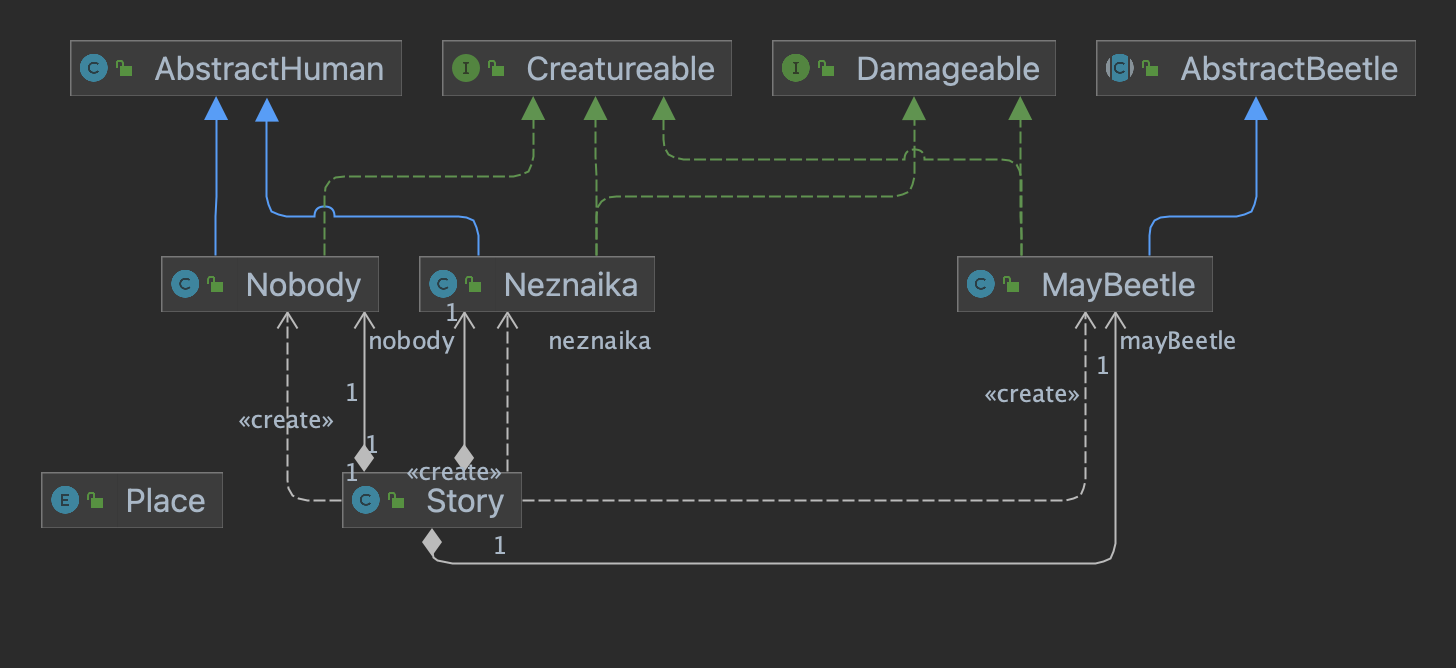
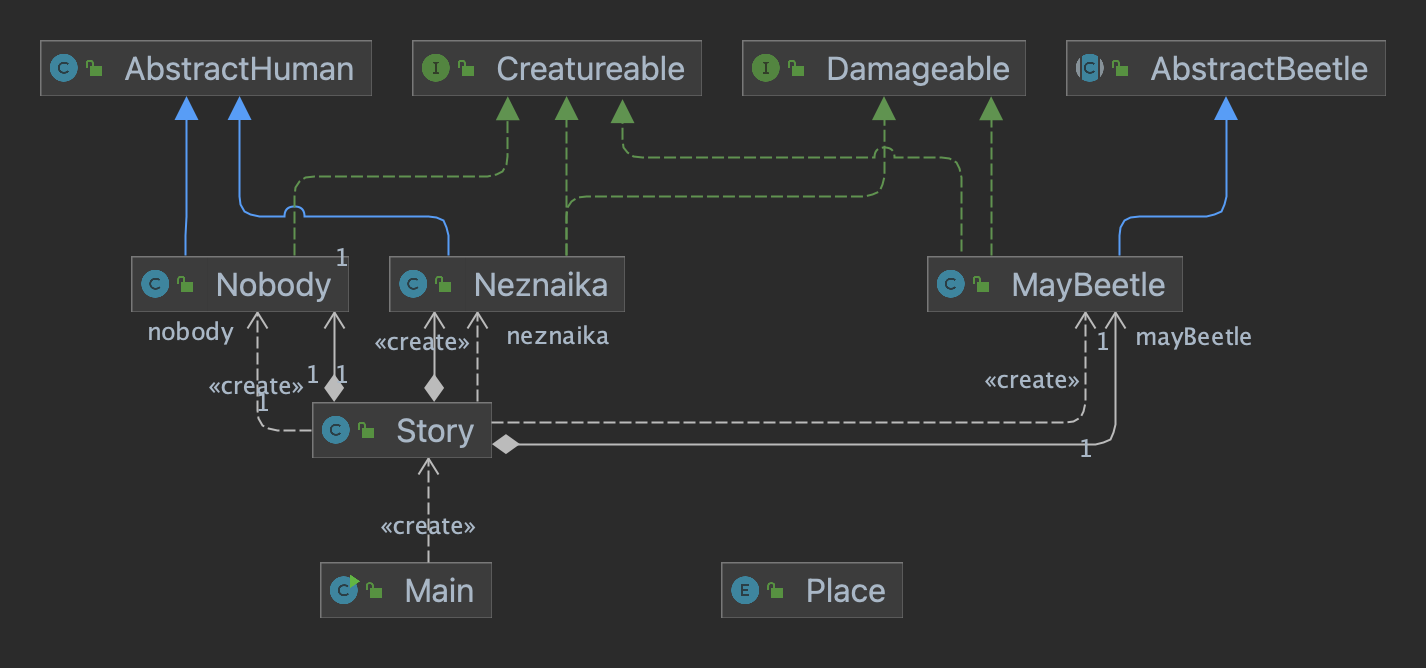
new class structure

diff --git a/src/sources/models/AbstractHuman.java b/src/sources/models/AbstractHuman.java
@@ -1,15 +1,16 @@
-package sources.abstracts;
+package sources.models;
 
 import java.util.Objects;
 
-public class AbstractHuman {
+public abstract class AbstractHuman implements Damageable, Creatureable, Seeable {
     private String name;
     private int age;
     private double popularity;
-    private boolean sex;
+    private String gender;
 
     public AbstractHuman(String name) {
         this.name = name;
+        System.out.println("Объект " + name.toUpperCase() + " создан");
     }
 
     public String getName() {
@@ -36,12 +37,12 @@ public class AbstractHuman {
         this.popularity = popularity;
     }
 
-    public boolean getSex() {
-        return sex;
+    public String getGender() {
+        return gender;
     }
 
-    public void setSex(boolean sex) {
-        this.sex = sex;
+    public void setGender(String gender) {
+        this.gender = gender;
     }
 
     @Override
@@ -57,15 +58,15 @@ public class AbstractHuman {
         if (!(o instanceof AbstractHuman that)) return false;
 
         if (age != that.age) return false;
-        if (sex != that.sex) return false;
-        return Objects.equals(name, that.name);
+        if (!Objects.equals(name, that.name)) return false;
+        return Objects.equals(gender, that.gender);
     }
 
     @Override
     public int hashCode() {
         int result = name != null ? name.hashCode() : 0;
         result = 31 * result + age;
-        result = 31 * result + (sex ? 1 : 0);
+        result = 31 * result + (gender != null ? gender.hashCode() : 0);
         return result;
     }
 }

diff --git a/src/sources/characters/Neznaika.java b/src/sources/characters/Neznaika.java
@@ -1,15 +1,13 @@
-package sources.story;
+package sources.characters;
 
-import sources.abstracts.AbstractHuman;
-import sources.enums.Place;
-import sources.interfaces.Creatureable;
-import sources.interfaces.Damageable;
+import sources.models.AbstractHuman;
+import sources.models.Place;
+import sources.models.Damageable;
 
-public class Neznaika extends AbstractHuman implements Creatureable, Damageable {
+public class Neznaika extends AbstractHuman {
 
     public Neznaika() {
         super("Незнайка");
-        System.out.println("Объект НЕЗНАЙКА создан");
     }
 
     @Override
@@ -45,7 +43,7 @@ public class Neznaika extends AbstractHuman implements Creatureable, Damageable 
         System.out.println("стал оглядываться по сторонам и смотреть, кто это его ударил. ");
     }
 
-    public void getFamous(double popularity) {
+    public void becomeFamous(double popularity) {
         setPopularity(popularity);
         if (popularity > 0.99) {
             System.out.println("В особенности Незнайка прославился после одной истории. ");

diff --git a/src/sources/characters/Nobody.java b/src/sources/characters/Nobody.java
@@ -1,17 +1,14 @@
-package sources.story;
+package sources.characters;
 
-import sources.abstracts.AbstractHuman;
-import sources.enums.Place;
-import sources.interfaces.Creatureable;
+import sources.models.Place;
+import sources.models.Creatureable;
 
-public class Nobody extends AbstractHuman implements Creatureable {
+public class Nobody implements Creatureable {
 
     public Nobody() {
-        super("Никто");
         System.out.println("Объект НИКТО создан");
     }
 
-    @Override
     public void act(Place place) {
         switch (place) {
             case VOKRUG -> System.out.println("Вокруг не было ни души. ");
@@ -21,12 +18,9 @@ public class Nobody extends AbstractHuman implements Creatureable {
     }
 
     @Override
-    public boolean canSee() {
-        return true;
-    }
-
-    @Override
-    public void watch() {
-
+    public void becomeFamous(double popularity) {
+        if (popularity > 0.99) {
+            System.out.println("В особенности никто не прославился. ");
+        }
     }
 }

diff --git a/src/sources/models/AbstractBeetle.java b/src/sources/models/AbstractBeetle.java
@@ -1,8 +1,8 @@
-package sources.abstracts;
+package sources.models;
 
 import java.util.Objects;
 
-public abstract class AbstractBeetle {
+public abstract class AbstractBeetle implements Damageable, Creatureable, Seeable, Flyable {
     private String name;
     private String type;
     private boolean ableToSee;
@@ -10,6 +10,7 @@ public abstract class AbstractBeetle {
     public AbstractBeetle(String name, String type) {
         this.name = name;
         this.type = type;
+        System.out.println("Объект " + type.toUpperCase() + " " + name.toUpperCase() + " создан");
     }
 
     public String getName() {
@@ -34,6 +35,13 @@ public abstract class AbstractBeetle {
 
     public void setAbleToSee(boolean ableToSee) {
         this.ableToSee = ableToSee;
+    }
+
+    @Override
+    public void becomeFamous(double popularity) {
+        if (popularity > 0.99) {
+            System.out.println("В особенности жук прославился после одной истории. ");
+        }
     }
 
     @Override

diff --git a/src/sources/models/Story.java b/src/sources/models/Story.java
@@ -1,11 +1,13 @@
-package sources.story;
+package sources.models;
 
-import sources.enums.Place;
+import sources.characters.MayBeetle;
+import sources.characters.Neznaika;
+import sources.characters.Nobody;
 
 public class Story {
-    private final Neznaika neznaika;
-    private final MayBeetle mayBeetle;
-    private final Nobody nobody;
+    private final AbstractHuman neznaika;
+    private final AbstractBeetle mayBeetle;
+    private final Creatureable nobody;
 
     public Story() {
         System.out.println("ИСТОРИЯ создается...");
@@ -19,7 +21,7 @@ public class Story {
         System.out.println();
         System.out.println("----------");
         System.out.println();
-        neznaika.getFamous(1);
+        neznaika.becomeFamous(1);
         neznaika.act(Place.CITY);
         neznaika.act(Place.FIELD);
         nobody.act(Place.VOKRUG);

diff --git a/src/sources/characters/MayBeetle.java b/src/sources/characters/MayBeetle.java
@@ -1,16 +1,14 @@
-package sources.story;
+package sources.characters;
 
-import sources.abstracts.AbstractBeetle;
-import sources.abstracts.AbstractHuman;
-import sources.enums.Place;
-import sources.interfaces.Creatureable;
-import sources.interfaces.Damageable;
+import sources.models.AbstractBeetle;
+import sources.models.AbstractHuman;
+import sources.models.Place;
+import sources.models.Damageable;
 
-public class MayBeetle extends AbstractBeetle implements Creatureable, Damageable {
+public class MayBeetle extends AbstractBeetle {
 
     public MayBeetle() {
         super("жук", "майский");
-        System.out.println("Объект МАЙСКИЙ ЖУК создан");
     }
 
     @Override

diff --git a/src/sources/Main.java b/src/sources/Main.java
@@ -1,6 +1,6 @@
 package sources;
 
-import sources.story.Story;
+import sources.models.Story;
 
 public class Main {
     public static void main(String[] args) {

diff --git a/src/sources/models/Creatureable.java b/src/sources/models/Creatureable.java
@@ -1,0 +1,6 @@
+package sources.models;
+
+public interface Creatureable {
+    void act(Place place);
+    void becomeFamous(double popularity);
+}

diff --git a/src/sources/models/Flyable.java b/src/sources/models/Flyable.java
@@ -1,0 +1,6 @@
+package sources.models;
+
+public interface Flyable {
+    void flyOver(AbstractHuman abstractHuman);
+    void flyAway();
+}

diff --git a/src/sources/models/Damageable.java b/src/sources/models/Damageable.java
@@ -1,4 +1,4 @@
-package sources.interfaces;
+package sources.models;
 
 public interface Damageable {
     void getDamage();

diff --git a/src/sources/models/Seeable.java b/src/sources/models/Seeable.java
@@ -1,0 +1,6 @@
+package sources.models;
+
+public interface Seeable {
+    boolean canSee();
+    void watch();
+}

diff --git a/src/sources/models/Place.java b/src/sources/models/Place.java
@@ -1,4 +1,4 @@
-package sources.enums;
+package sources.models;
 
 public enum Place {
     FIELD,
